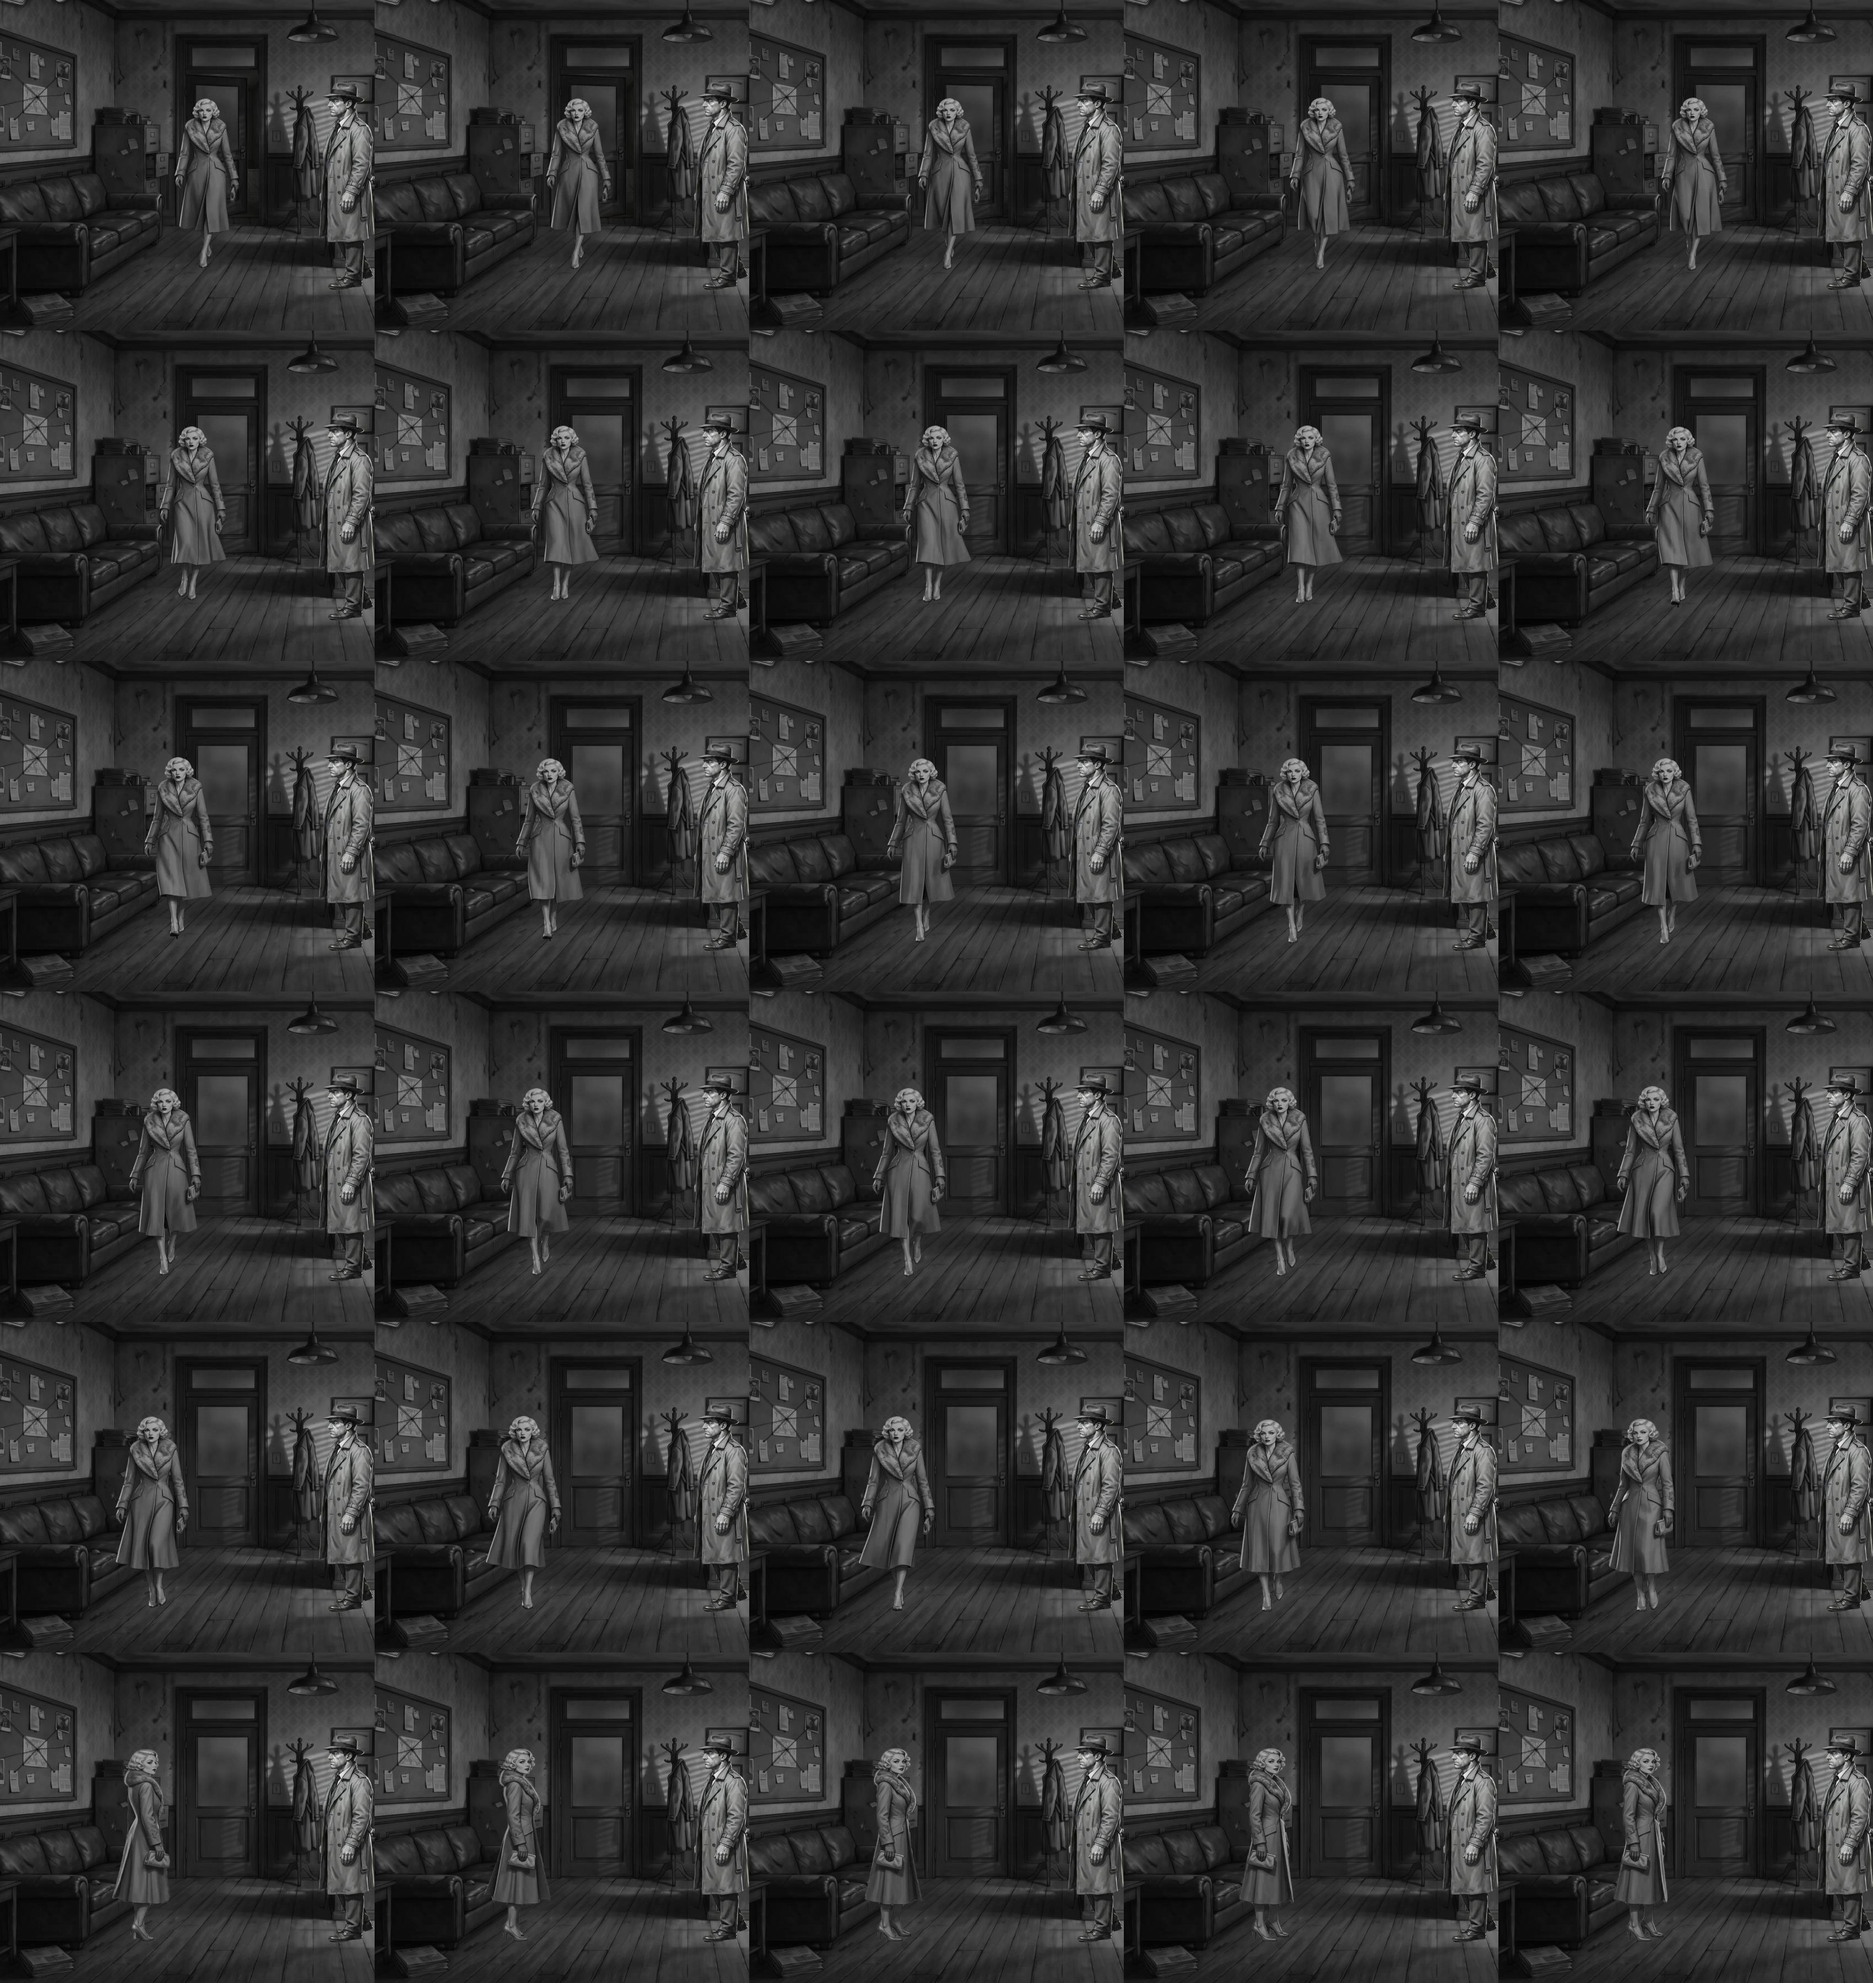
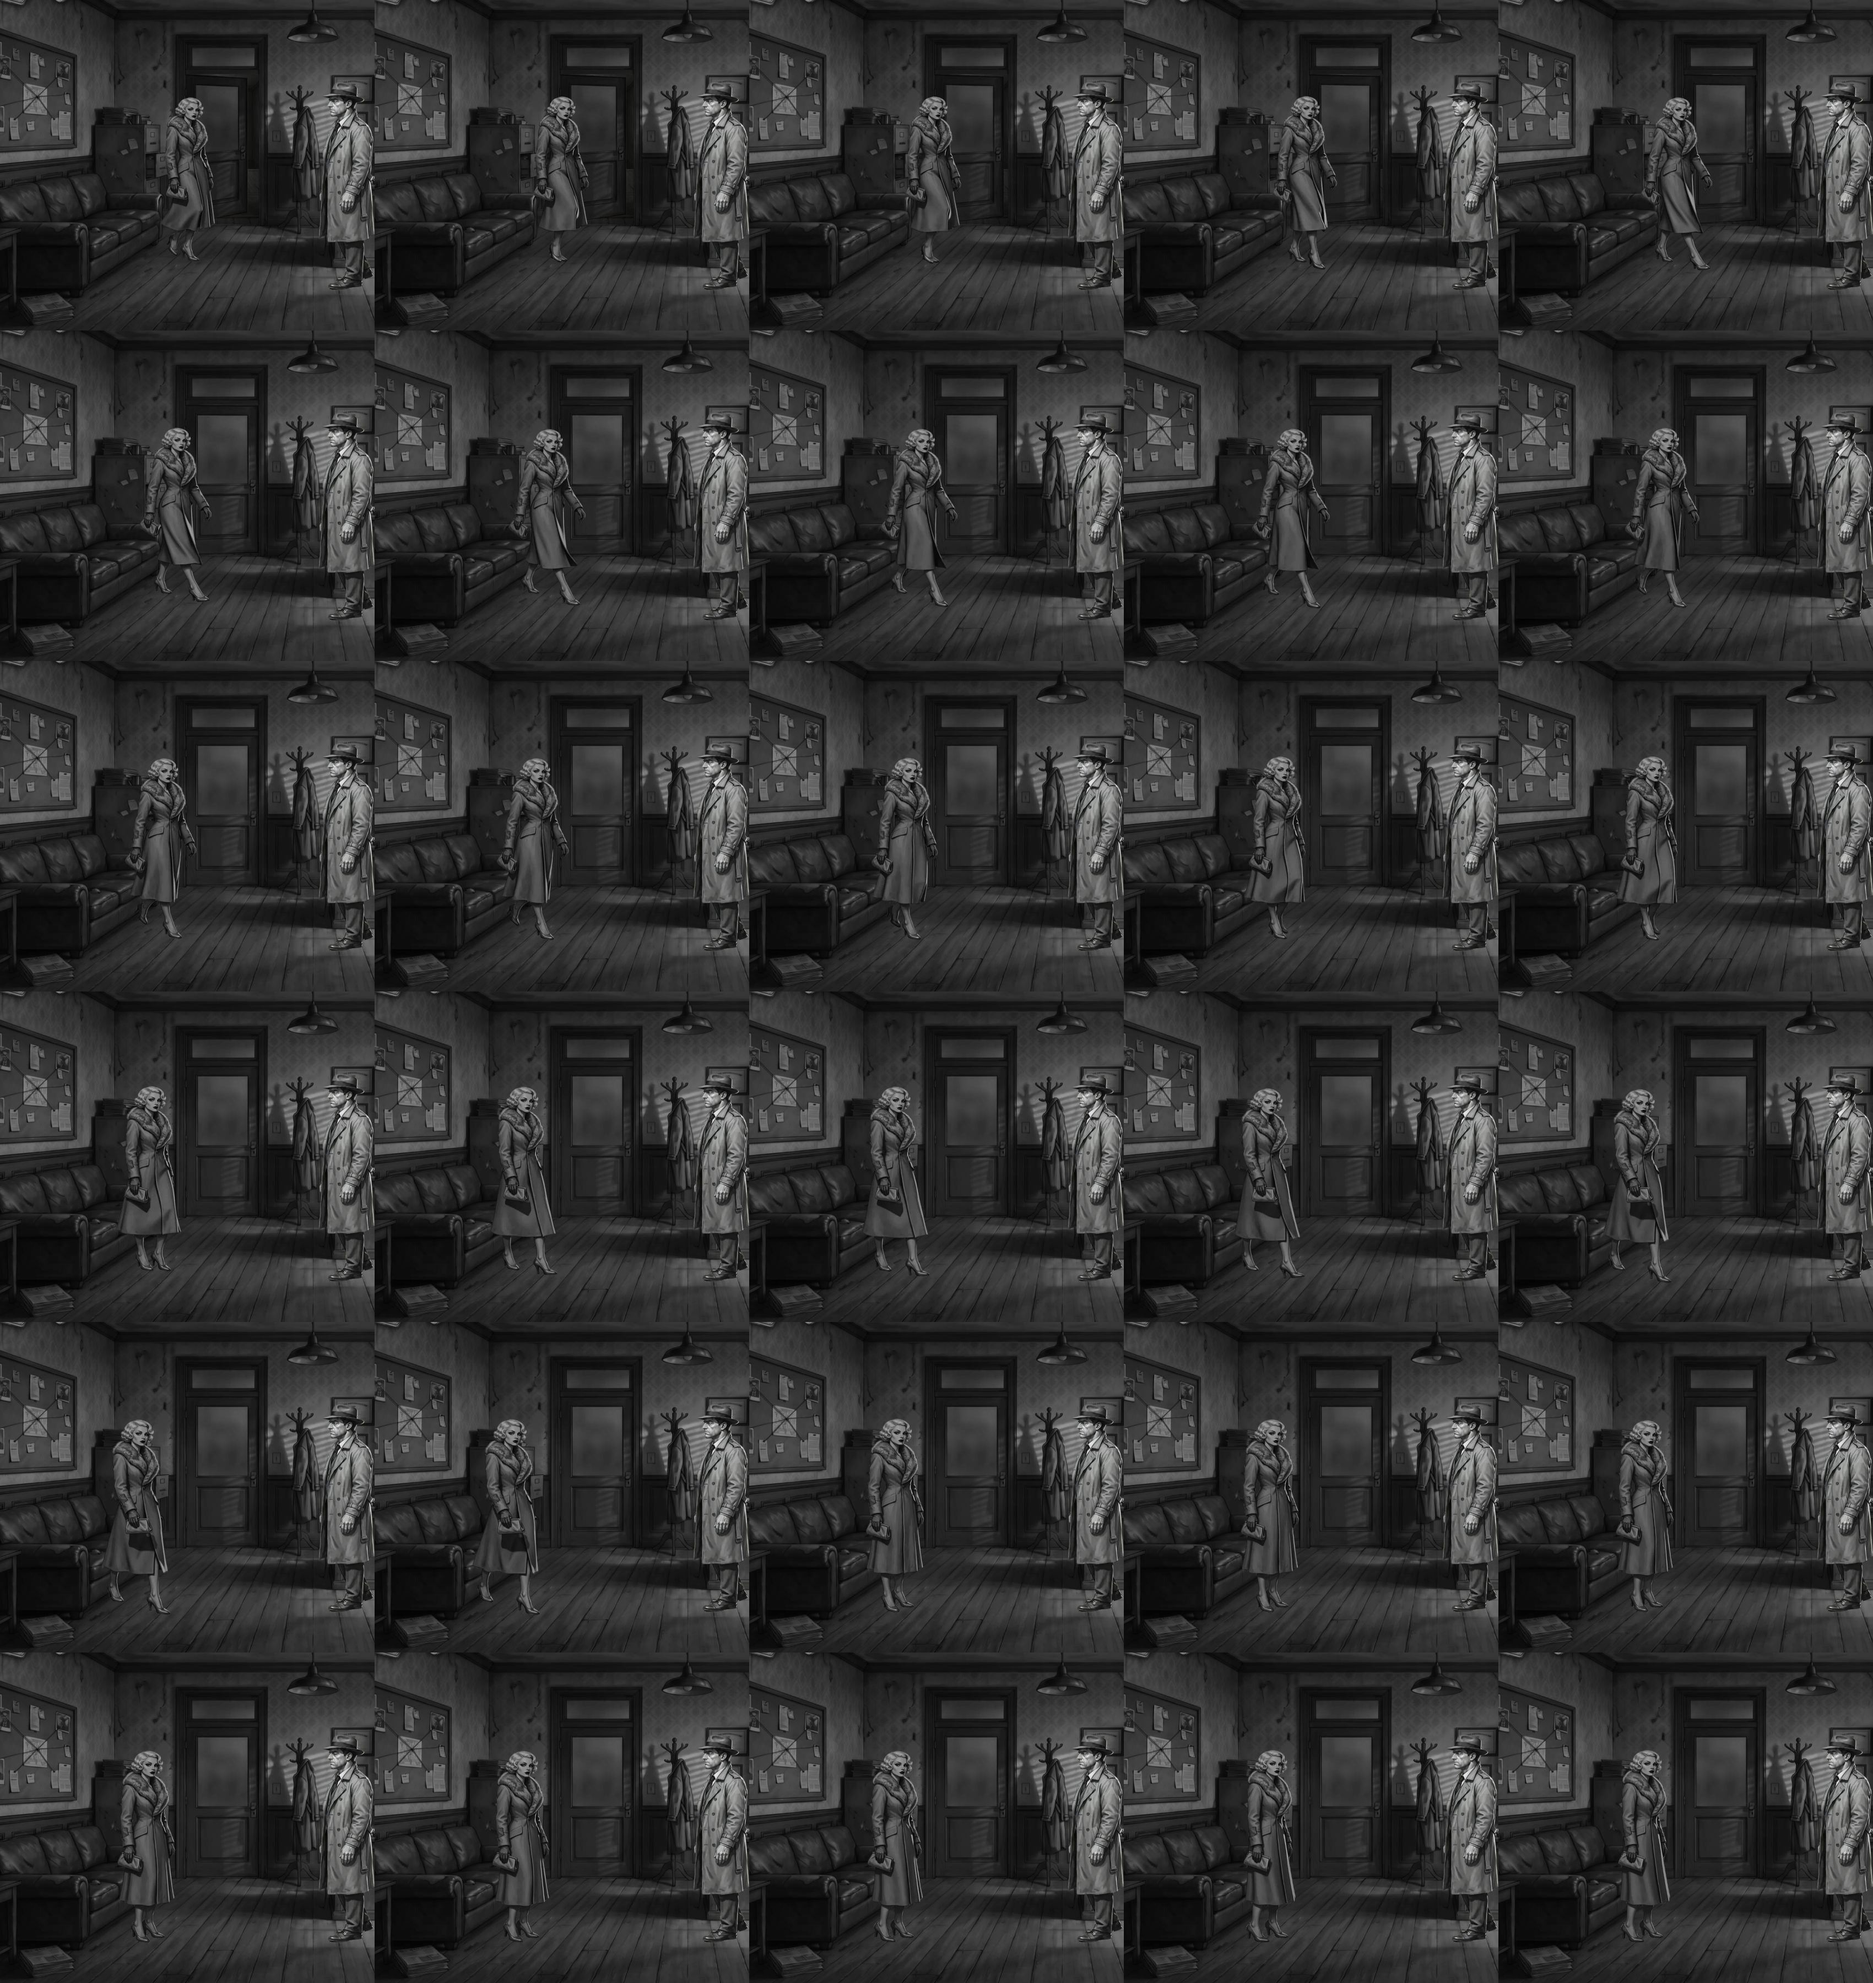
Inez comes in a couple of steps facing us, then veers off toward the sofa in her three-quarter walk and sits (no separate turn); Matt's spot inside the flat door a little to the right
Claude-Session: https://claude.ai/code/session_016HTeTLuKEPxXJNnCtSfFsX

diff --git a/game/web/game.js b/game/web/game.js
@@ -173,13 +173,14 @@
       if (E.door) { E.door('door', true, 0.5); setTimeout(() => E.door('door', false, 0.9), 1700); }   // the door opens, she comes in, it swings to
       // she's behind the right side of the doorway (clear of the leaf) when it opens, walks in facing us, comes over
       // to the sofa, turns to it and sits
-      const behind = E.doorPoint ? E.doorPoint('door', 0.72, 40) : A.door, out = E.doorPoint ? E.doorPoint('door', 0.72, -110) : A.door;
-      const turn = (sc.objects.find(o => o.name === 'inez-seated') || {}).acts || {};
+      // a couple of steps straight in, facing us, then she veers off toward the sofa (the three-quarter walk, at the
+      // angle she sits from) and sits
+      const behind = E.doorPoint ? E.doorPoint('door', 0.72, 40) : A.door, out = E.doorPoint ? E.doorPoint('door', 0.72, -75) : A.door;
+      const toward = A.sheets.left ? 'left' : 'front';
       inezWalk = sleep(E.door ? 300 : 0)
-        .then(() => E.door ? E.actorWalk('inez', 'front', behind, out, null, 1.1) : null)
-        .then(() => E.actorWalk('inez', 'front', E.door ? out : A.door, A.stand, E.door ? null : 'in', A.secs_in * 0.8))
-        .then(() => { STORY.hidden.delete('inez-seated'); return turn.turn ? E.anim('inez-seated', 'turn') : null; })
-        .then(() => E.anim('inez-seated', 'sit'));
+        .then(() => E.door ? E.actorWalk('inez', 'front', behind, out, null, 0.9) : null)
+        .then(() => E.actorWalk('inez', toward, E.door ? out : A.door, A.stand, E.door ? null : 'in', A.secs_in * 0.85))
+        .then(() => { STORY.hidden.delete('inez-seated'); return E.anim('inez-seated', 'sit'); });
     }
     if (a === 'sit') { if (inezWalk) await inezWalk; inezWalk = null; }
     if (a === 'stand') await E.anim('inez-seated', 'sit', true);
